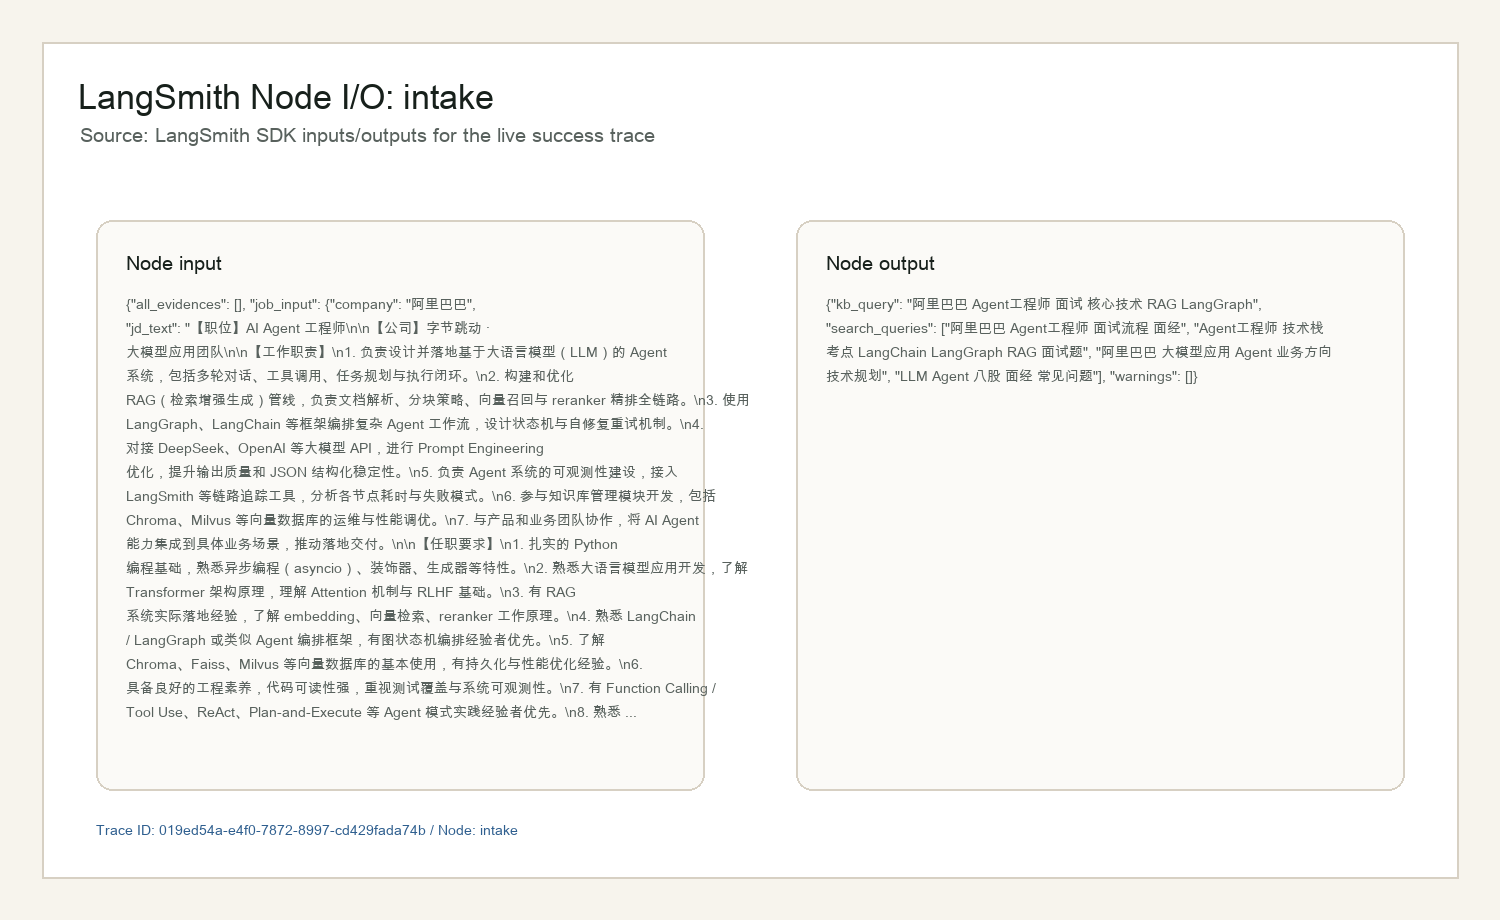
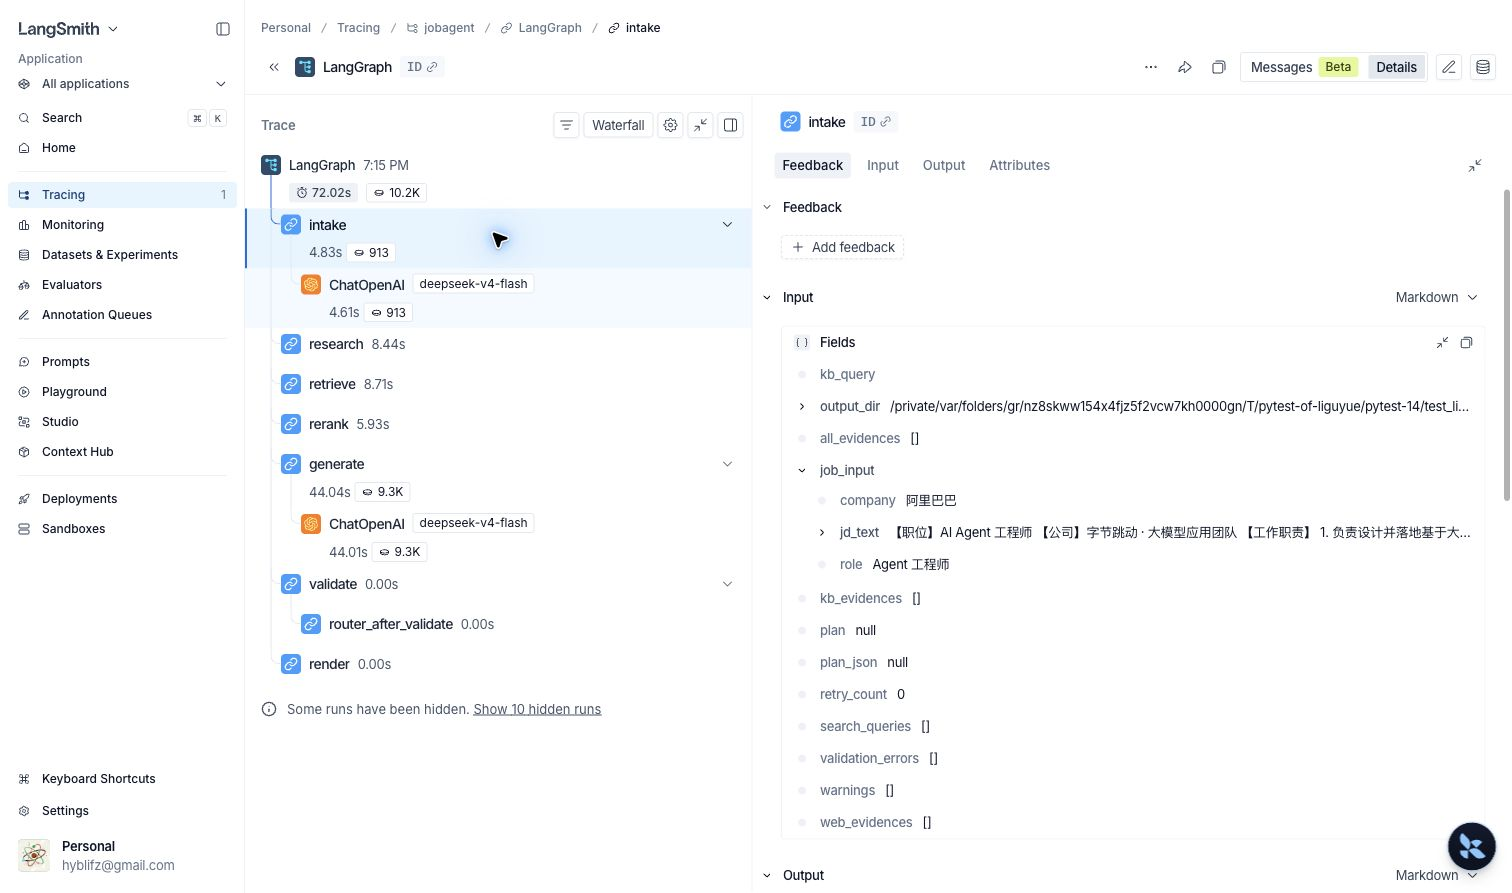
docs: replace langsmith evidence screenshots

diff --git a/plans/2026-06-16.md b/plans/2026-06-16.md
@@ -12,9 +12,8 @@
     validate→generate 重试环在 trace 里可见（可临时把 MAX_RETRIES 触发条件做成
     必失败一次来演示，截完图还原）。
   - 截图 2-3 张存 `docs/img/`：全图 trace、单节点输入输出、重试环。
-    - 已放入 SDK-derived 占位图：`docs/img/langsmith-trace-success.png`、
+    - 已用 Chrome 登录态替换为真实 LangSmith 控制台截图：`docs/img/langsmith-trace-success.png`、
       `docs/img/langsmith-node-io-intake.png`、`docs/img/langsmith-retry-loop.png`。
-    - TODO（手动）：浏览器登录 LangSmith 后，可用真实控制台 UI 截图替换上述占位图。
 - [x] **live smoke 测试**
   - `tests/test_live_smoke.py`：`RUN_LIVE_TESTS=1` 且 key 齐全时才跑
     （`pytest.mark.skipif`），真实 Tavily + DeepSeek 全链路一次，断言产物文件存在
@@ -59,5 +58,5 @@
   - `docs/img/langsmith-trace-success.png`
   - `docs/img/langsmith-node-io-intake.png`
   - `docs/img/langsmith-retry-loop.png`
-  - Browser access to LangSmith console reached the login/sign-up page, so the current images are
-    SDK-derived placeholders. Manual console screenshots can replace them without changing code.
+  - 2026-06-17 later update: Chrome extension access with an authenticated LangSmith session
+    replaced the earlier SDK-derived placeholders with real console screenshots.